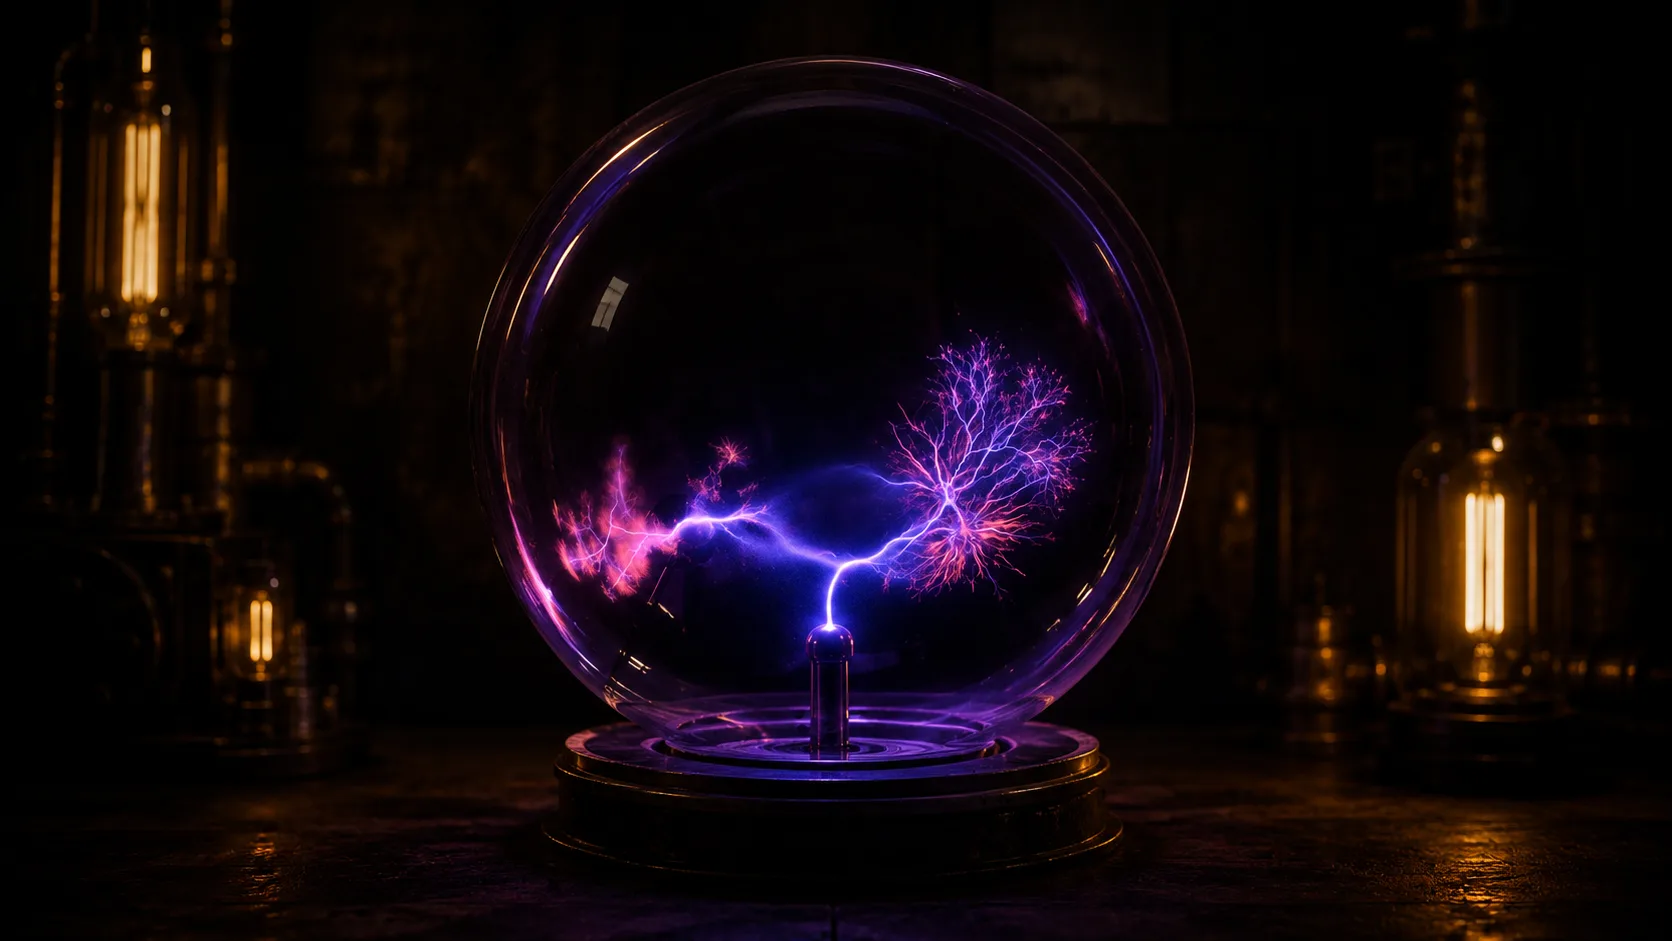
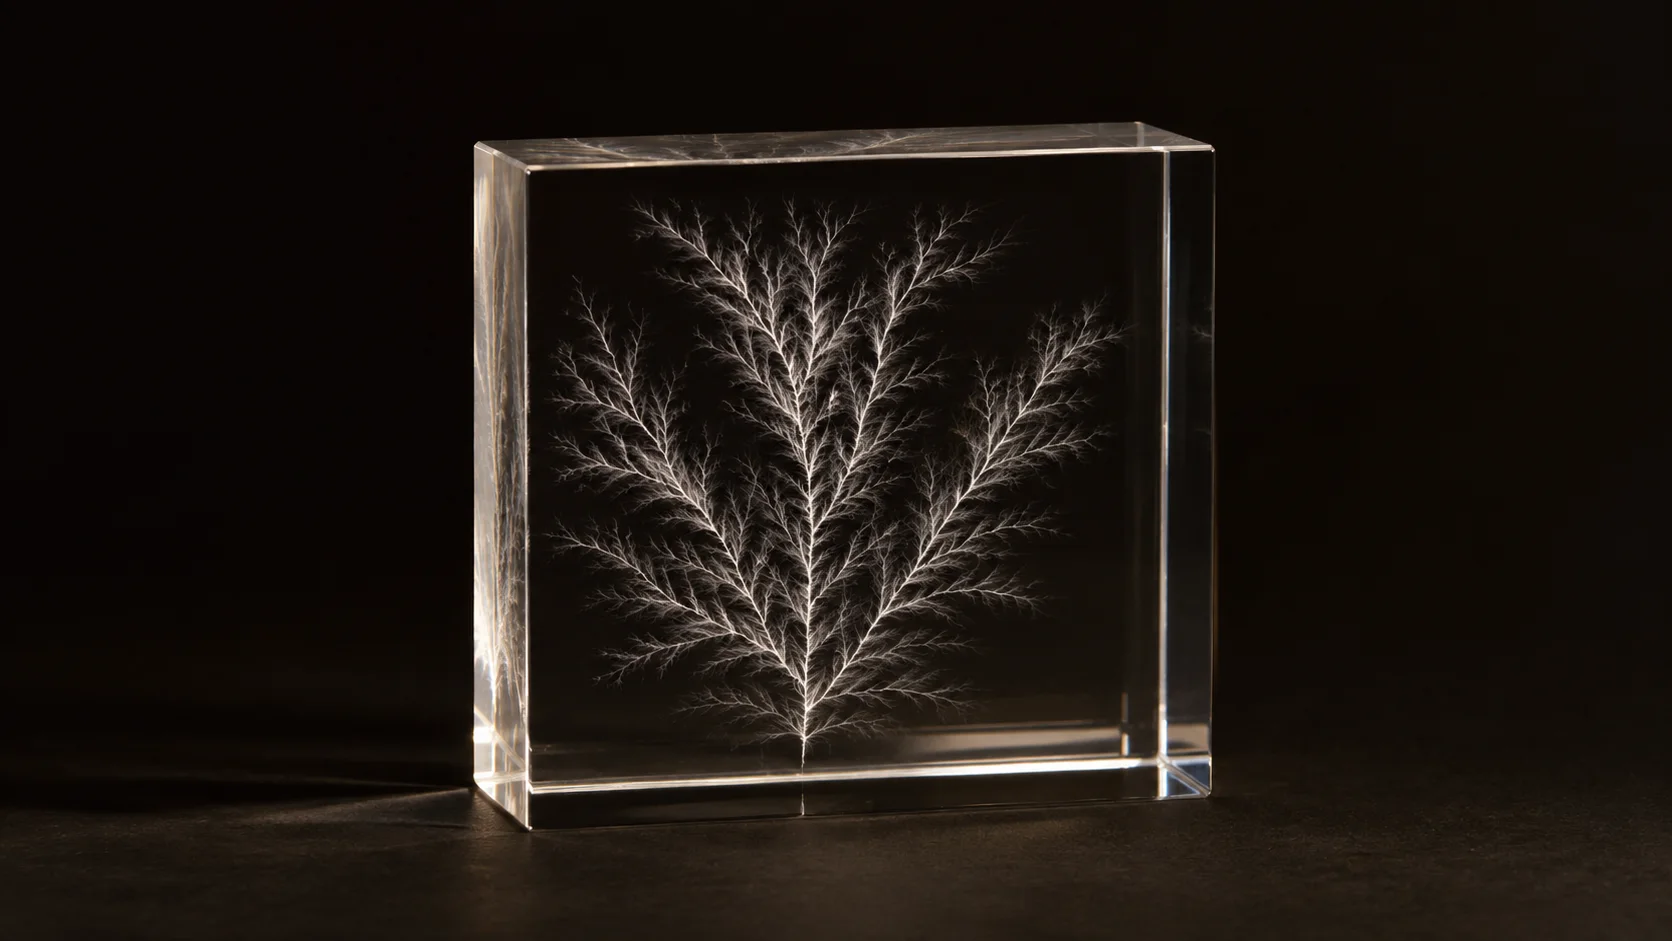
quiz: neutral hero subtitle + real Lichtenberg figure for Q8

diff --git a/quiz/index.html b/quiz/index.html
@@ -344,7 +344,7 @@ const hero=document.createElement('section');hero.className='scene hero';
 hero.innerHTML=`<div class="inner">
   <p class="kick">Фрактальная Одиссея · квиз</p>
   <h1>Фракталы <em>в природе</em></h1>
-  <p class="desc">Как одна геометрия проступает в подсолнухе, снежинке, коже рыбы и следе молнии.</p>
+  <p class="desc">Как одна и та же геометрия проступает в живом и неживом — от растений до кристаллов.</p>
   <p class="sub">Составитель — Николай Русскин</p>
   <div class="actions"><button class="btn xl" id="startBtn">Начать <span class="arr">→</span></button></div>
 </div>`;